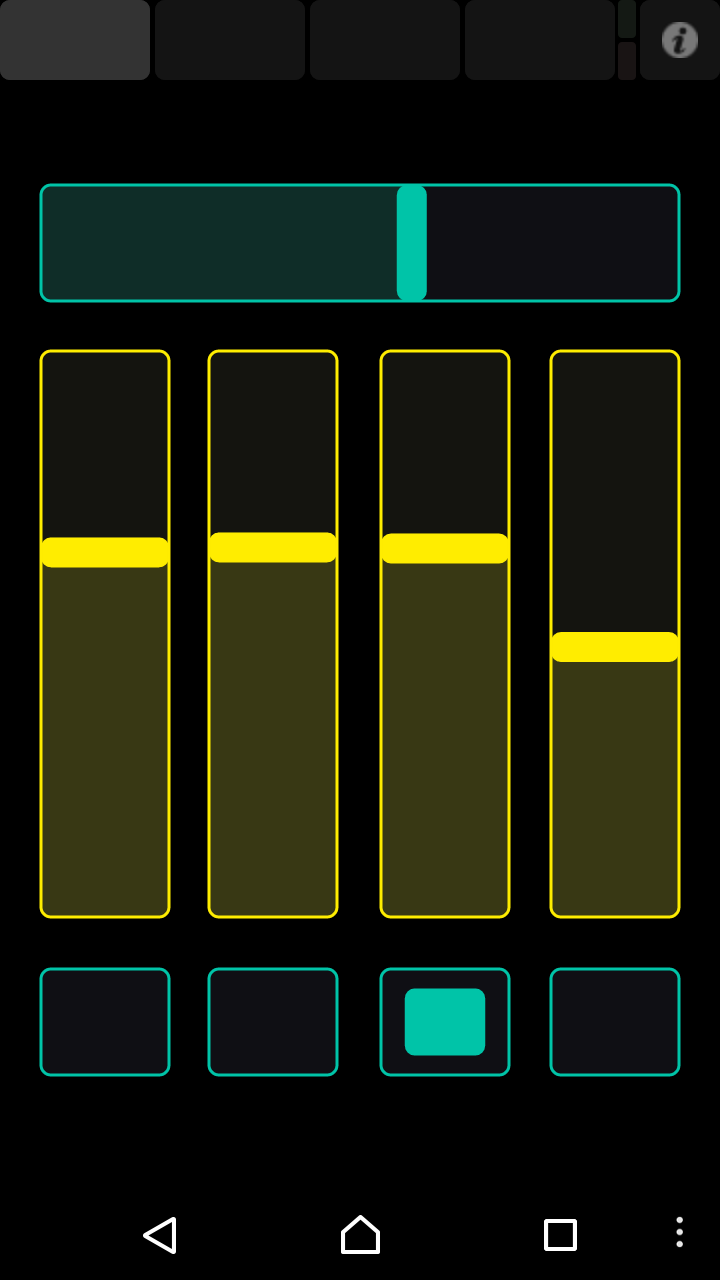
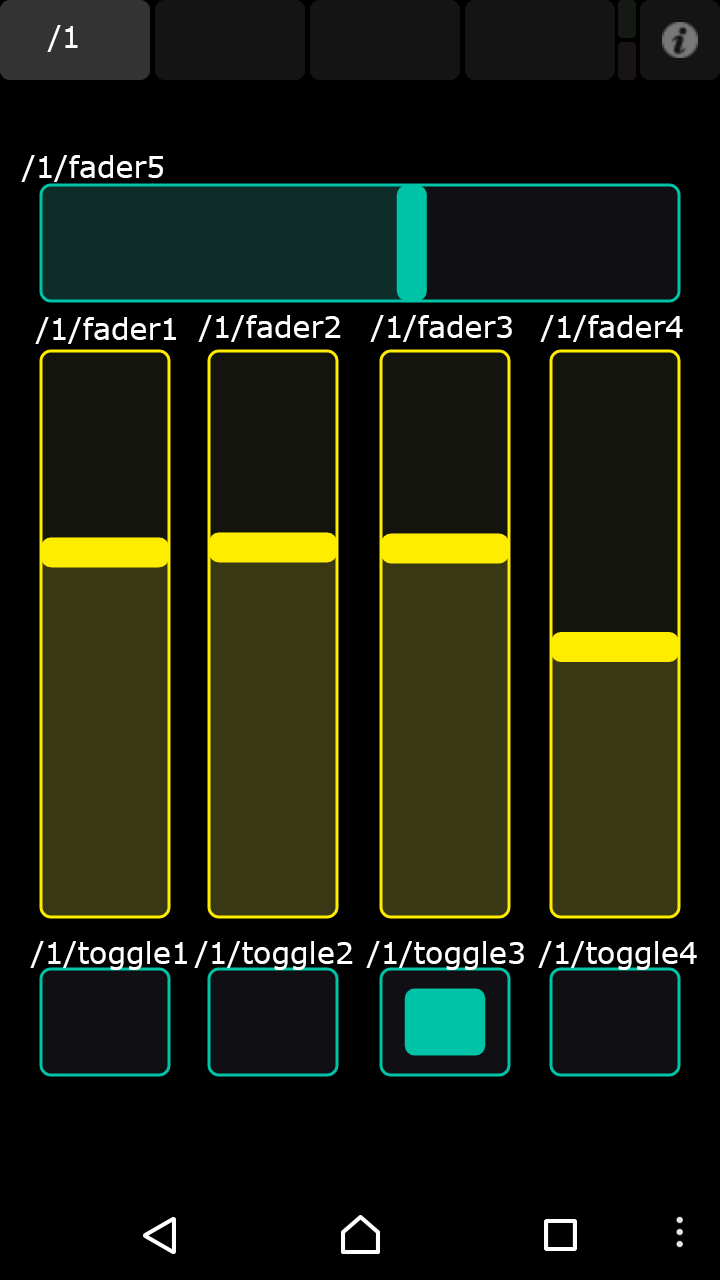
osc address

diff --git a/index.html b/index.html
@@ -32,6 +32,7 @@
 <a id="goal" class="anchor" href="#goal" aria-hidden="true"><span class="octicon octicon-link"></span></a>Goal</h3>
 
 <p>Create multiplatform applications (win, mac, lnx, android, ios) to do VJing/installations/VR/web</p>
+<p>Network enabled, maximum performance, code reuse, open source</p>
         <h3>
 <a id="structures" class="anchor" href="#structures" aria-hidden="true"><span class="octicon octicon-link"></span></a>Structures</h3>
 
@@ -116,7 +117,7 @@
 
 <h3>
 <a id="workflow" class="anchor" href="#workflow" aria-hidden="true"><span class="octicon octicon-link"></span></a>Git workflow</h3>
-
+<p>Get involved! Design, advice, development...</p>
 <p>The projet source is hosted on github, in several repositories. To compile the projects without modifications you can just clone the desired projects. If you want to contribute, I suggest the following workflow:</p>
 <ul>
   <li>Fork the project</li>
@@ -144,6 +145,8 @@
   <li>touch designer</li>
   <li>etc</li>
 </ul>
+
+
       </section>
     </div>
 

diff --git a/touchosc.html b/touchosc.html
@@ -12,10 +12,28 @@
   </head>
 
   <body>
+  <header>
+      <div class="container">
+        <h1>TouchOSC</h1>
+        <h2>Android screen captures with OSC address</h2>
+      </div>
+    </header>
 
+    <div class="container">
+      <section id="main_content">
+<h3><a id="simple" class="anchor" href="#simple" aria-hidden="true"><span class="octicon octicon-link"></span></a>Simple</h3>
+ <img src="images/touchosc/simple-1.png" />
+ <img src="images/touchosc/simple-2.png" />
+ <img src="images/touchosc/simple-3.png" />
+ <img src="images/touchosc/simple-4.png" />
+
+<h3><a id="beat" class="anchor" href="#beat" aria-hidden="true"><span class="octicon octicon-link"></span></a>Beatmachine</h3>
  <img src="images/touchosc/beat-1.png" />
  <img src="images/touchosc/beat-2.png" />
-
+ <img src="images/touchosc/beat-3.png" />
+ <img src="images/touchosc/beat-4.png" />
+      </section>
+    </div>
   </body>
 </html>
 <script>
